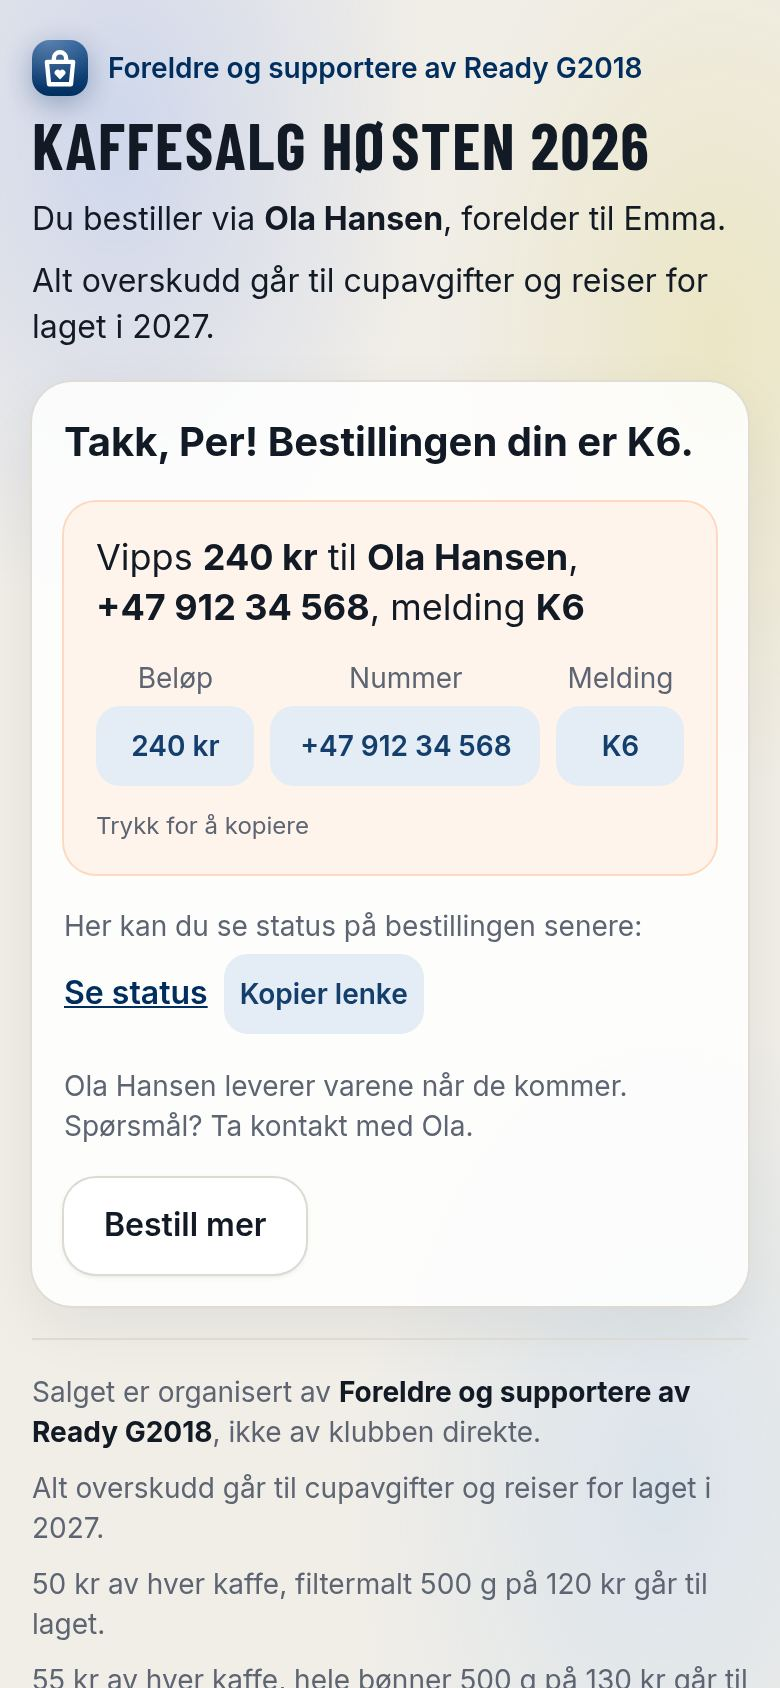
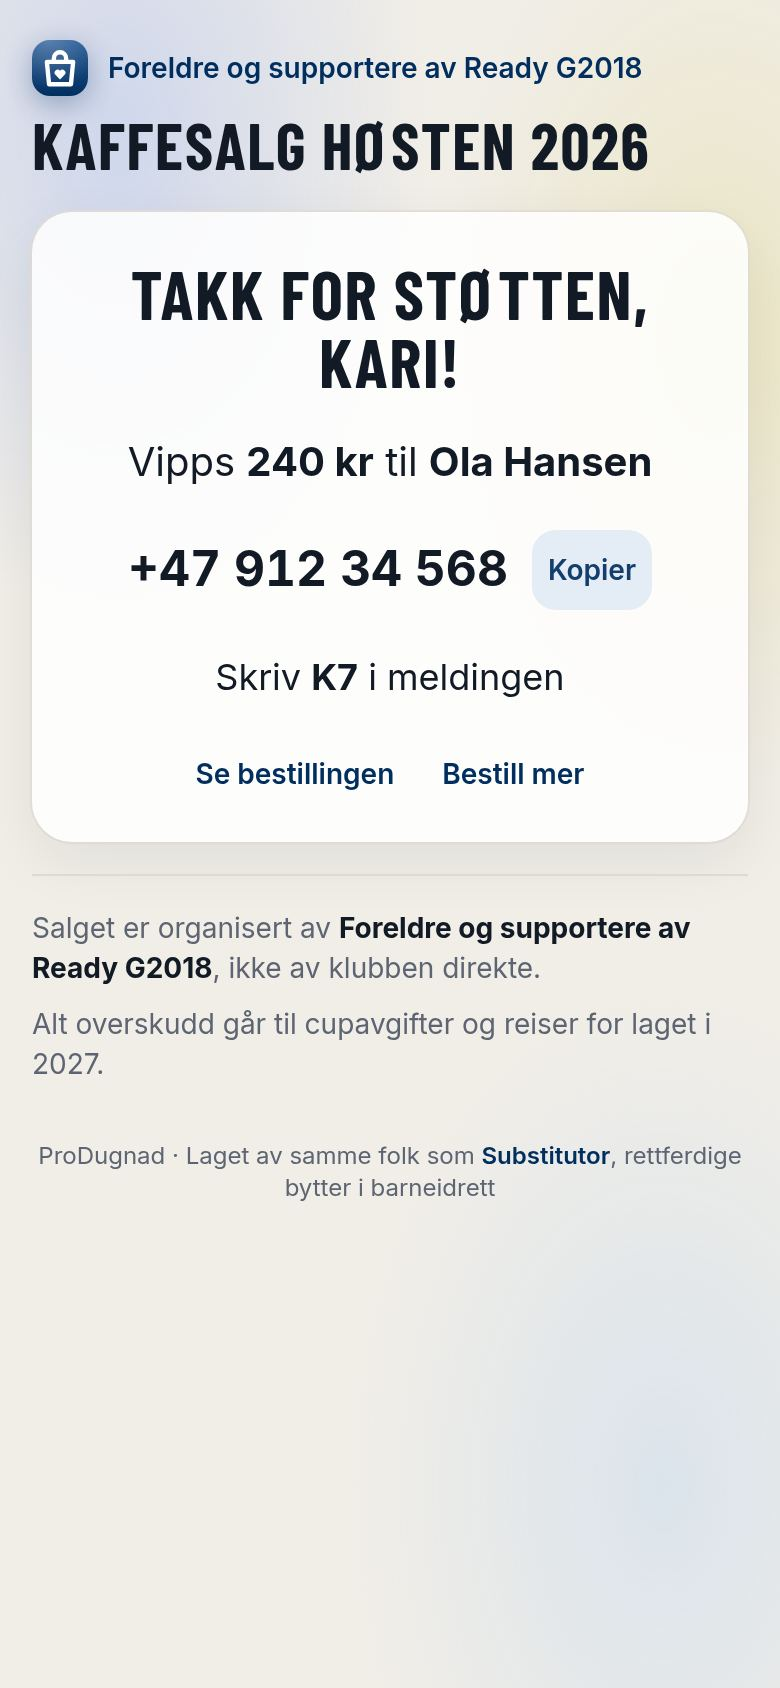
Simpler page after ordering: thanks, Vipps amount and name, copyable number, message code

diff --git a/src/pages/FriendOrderPage.tsx b/src/pages/FriendOrderPage.tsx
@@ -5,9 +5,8 @@ import { ProgressBar } from '../components/ProgressBar'
 import { ProductPicker, quantitiesToLines, quantitiesTotal, type Quantities } from '../components/ProductPicker'
 import { ClosingMessage, Transparency } from '../components/Transparency'
 import { Button, Card, ErrorBox, Field, Input, Loading, Logo, Notice, Page, Title } from '../components/ui'
-import { VippsBox } from '../components/VippsBox'
 import { errorText } from '../lib/errors'
-import { kr, longDate } from '../lib/format'
+import { kr, longDate, phone, phoneDigits } from '../lib/format'
 import { newId } from '../lib/id'
 import { ordersForLink, rememberOrder, type LocalOrder } from '../lib/localOrders'
 import { supabase } from '../lib/supabase'
@@ -103,35 +102,41 @@ export default function FriendOrderPage() {
           <p className="text-sm font-semibold text-brand">{campaign.organizer_label}</p>
         </div>
         <Title>{campaign.name}</Title>
-        <p className="text-ink">
-          Du bestiller via <strong>{parent.name}</strong>
-          {childText}.
-        </p>
-        {campaign.purpose_text && <p className="text-ink">{campaign.purpose_text}</p>}
-        {campaign.raised !== null && <ProgressBar raised={campaign.raised} target={campaign.target_amount ?? 0} />}
+        {!placed && (
+          <>
+            <p className="text-ink">
+              Du bestiller via <strong>{parent.name}</strong>
+              {childText}.
+            </p>
+            {campaign.purpose_text && <p className="text-ink">{campaign.purpose_text}</p>}
+            {campaign.raised !== null && <ProgressBar raised={campaign.raised} target={campaign.target_amount ?? 0} />}
+          </>
+        )}
       </header>
 
       <ClosingMessage campaign={campaign} />
 
       {placed ? (
-        <Card className="space-y-4">
-          <h2 className="text-xl font-bold">Takk, {firstName.trim()}! Bestillingen din er {placed.code}.</h2>
-          <VippsBox amount={placed.amount} name={placed.parent.name} phoneNumber={placed.parent.phone} code={placed.code} />
-          <div className="space-y-1">
-            <p className="text-sm text-muted">Her kan du se status på bestillingen senere:</p>
-            <div className="flex flex-wrap items-center gap-2">
-              <Link to={`/status/${placed.status_token}`} className="font-semibold text-brand underline">
-                Se status
-              </Link>
-              <CopyButton value={statusUrl(placed.status_token)} label="Kopier lenke" />
-            </div>
-          </div>
-          <p className="text-sm text-muted">
-            {parent.name} leverer varene når de kommer. Spørsmål? Ta kontakt med {parent.name.split(' ')[0]}.
+        <Card className="space-y-5 py-6 text-center">
+          <h2 className="font-display text-[34px] leading-none uppercase tracking-wide">Takk for støtten, {firstName.trim()}!</h2>
+          <p className="text-xl leading-snug">
+            Vipps <strong>{kr(placed.amount)}</strong> til <strong>{placed.parent.name}</strong>
           </p>
-          <Button variant="secondary" onClick={orderMore}>
-            Bestill mer
-          </Button>
+          <div className="flex items-center justify-center gap-3">
+            <span className="text-2xl font-bold whitespace-nowrap tabular-nums">{phone(placed.parent.phone)}</span>
+            <CopyButton value={phoneDigits(placed.parent.phone)} label="Kopier" />
+          </div>
+          <p className="text-lg">
+            Skriv <strong>{placed.code}</strong> i meldingen
+          </p>
+          <div className="flex justify-center gap-6 pt-1 text-sm">
+            <Link to={`/status/${placed.status_token}`} className="font-semibold text-brand">
+              Se bestillingen
+            </Link>
+            <button type="button" onClick={orderMore} className="font-semibold text-brand">
+              Bestill mer
+            </button>
+          </div>
         </Card>
       ) : (
         <>

diff --git a/docs/tekster.md b/docs/tekster.md
@@ -38,13 +38,11 @@ Every text in the app, the emails and the link previews, as of 7 November 2026, 
 
 | # | Where | Text |
 |---|---|---|
-| B1 | Heading | Takk, Kari! Bestillingen din er K7. |
-| B2 | Vipps box | Vipps **240 kr** til **Ola Hansen**, **+47 912 34 568**, melding **K7** |
-| B3 | Copy buttons' labels | Beløp · Nummer · Melding |
-| B4 | Under them | Trykk for å kopiere |
-| B5 | Status link | Her kan du se status på bestillingen senere: · Se status · Kopier lenke |
-| B6 | Delivery | Ola Hansen leverer varene når de kommer. Spørsmål? Ta kontakt med Ola. |
-| B7 | Button | Bestill mer |
+| B1 | Heading | Takk for støtten, Kari! |
+| B2 | Payment | Vipps **240 kr** til **Ola Hansen** |
+| B3 | Number + button (only the number can be copied) | **+47 912 34 568** · Kopier / Kopiert ✓ |
+| B4 | Message | Skriv **K7** i meldingen |
+| B5 | Small links | Se bestillingen · Bestill mer |
 
 ## C. Order status page (`/status/…`)
 
